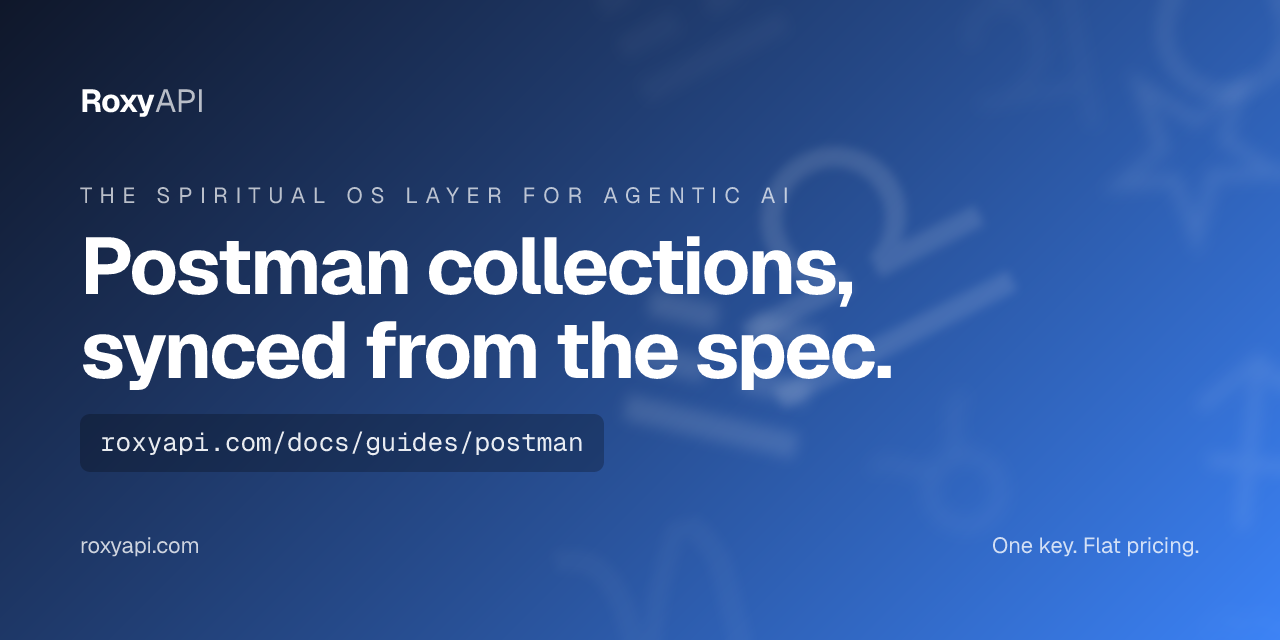
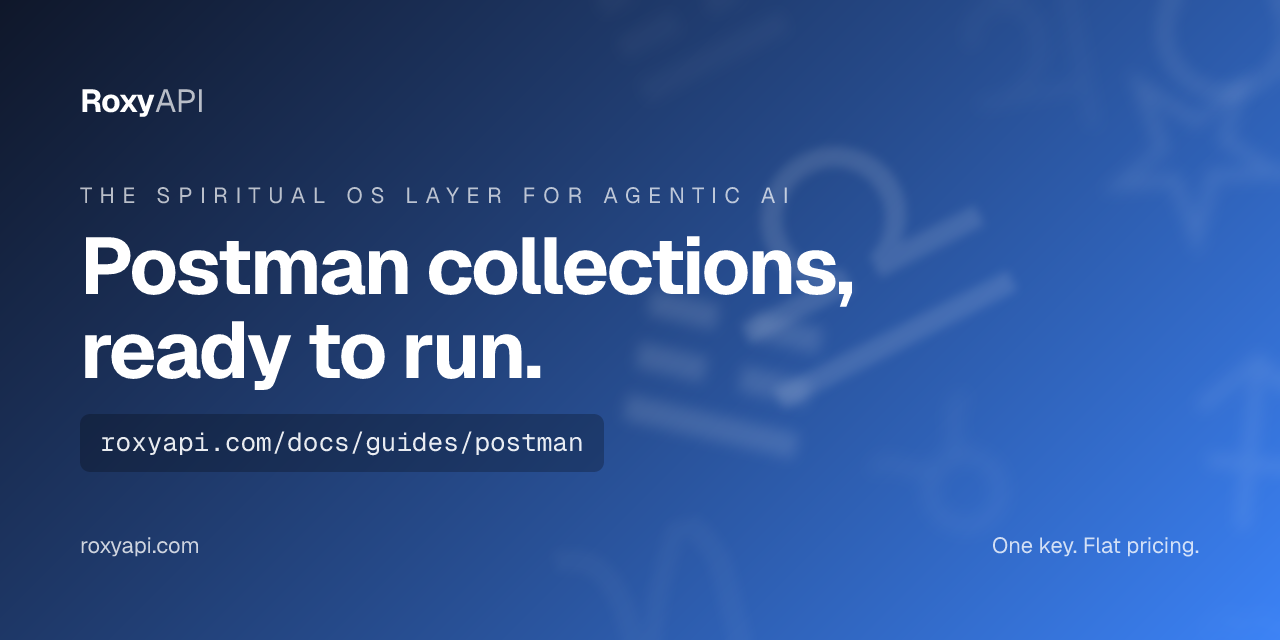
docs: hero promise line sells the outcome

Changed region(s): [[0.0625, 0.5, 0.7188, 0.625]]

diff --git a/README.md b/README.md
@@ -1,6 +1,6 @@
 <p align="center">
   <a href="https://roxyapi.com">
-    <img src="https://raw.githubusercontent.com/RoxyAPI/postman-collections/main/assets/hero.png" alt="RoxyAPI Postman collections, synced from the spec. The Spiritual OS layer for agentic AI. One key, flat pricing." width="100%">
+    <img src="https://raw.githubusercontent.com/RoxyAPI/postman-collections/main/assets/hero.png" alt="RoxyAPI Postman collections, ready to run. The Spiritual OS layer for agentic AI. One key, flat pricing." width="100%">
   </a>
 </p>
 
